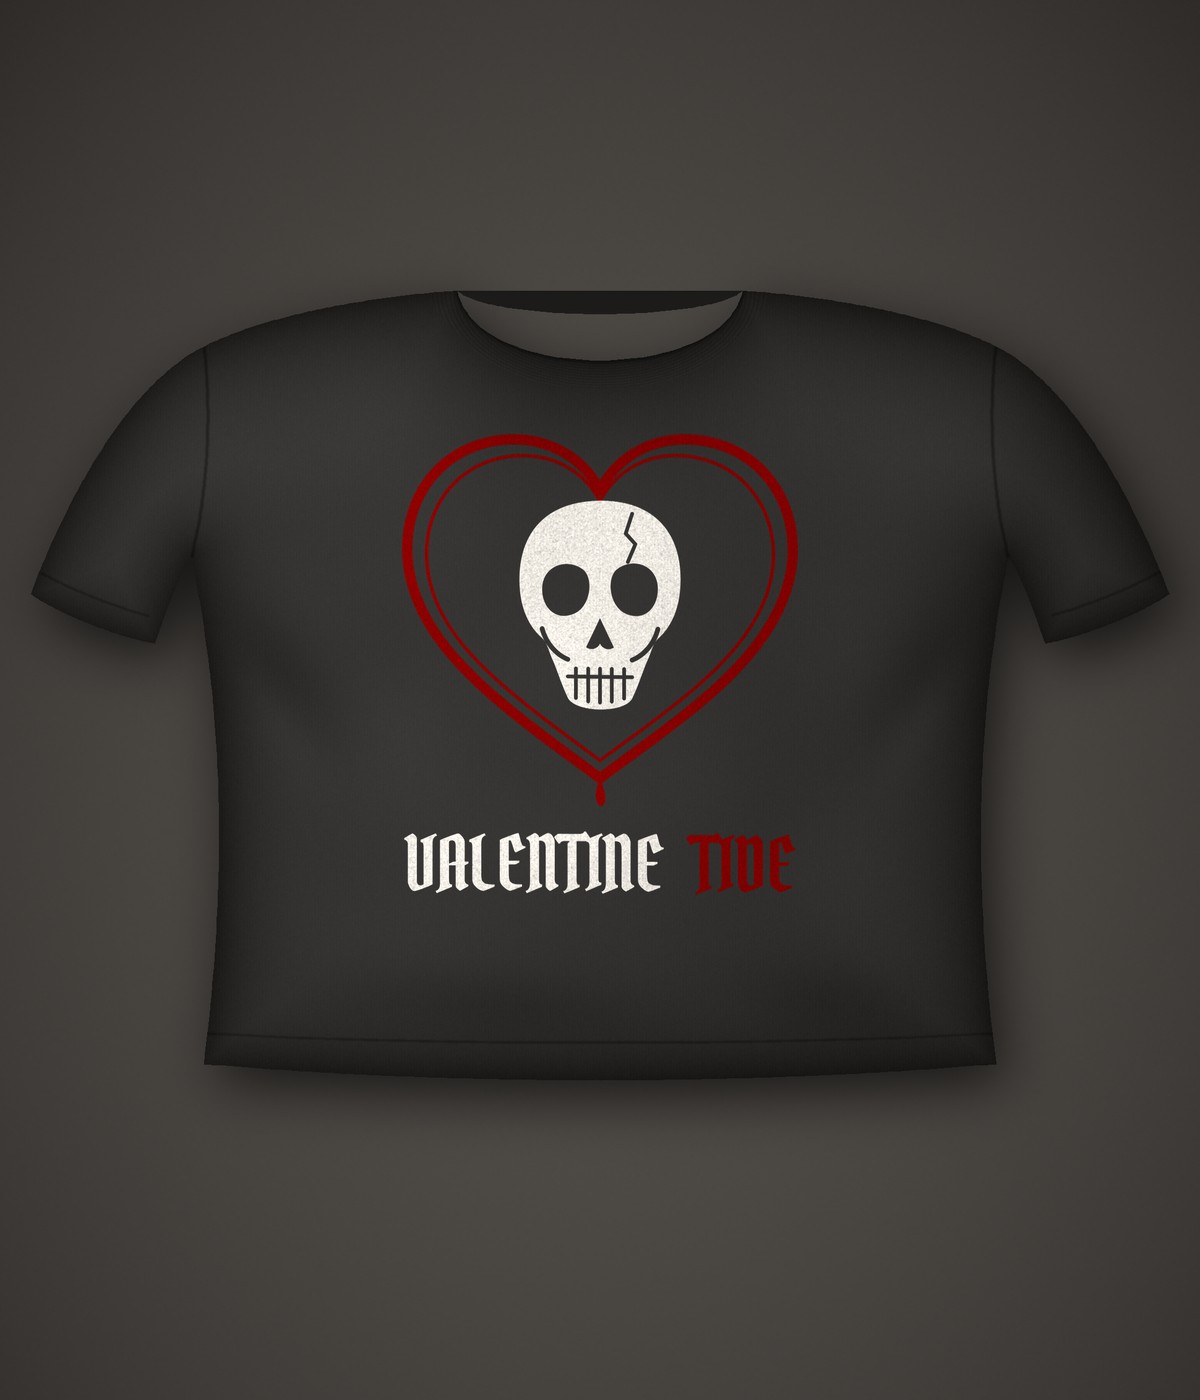
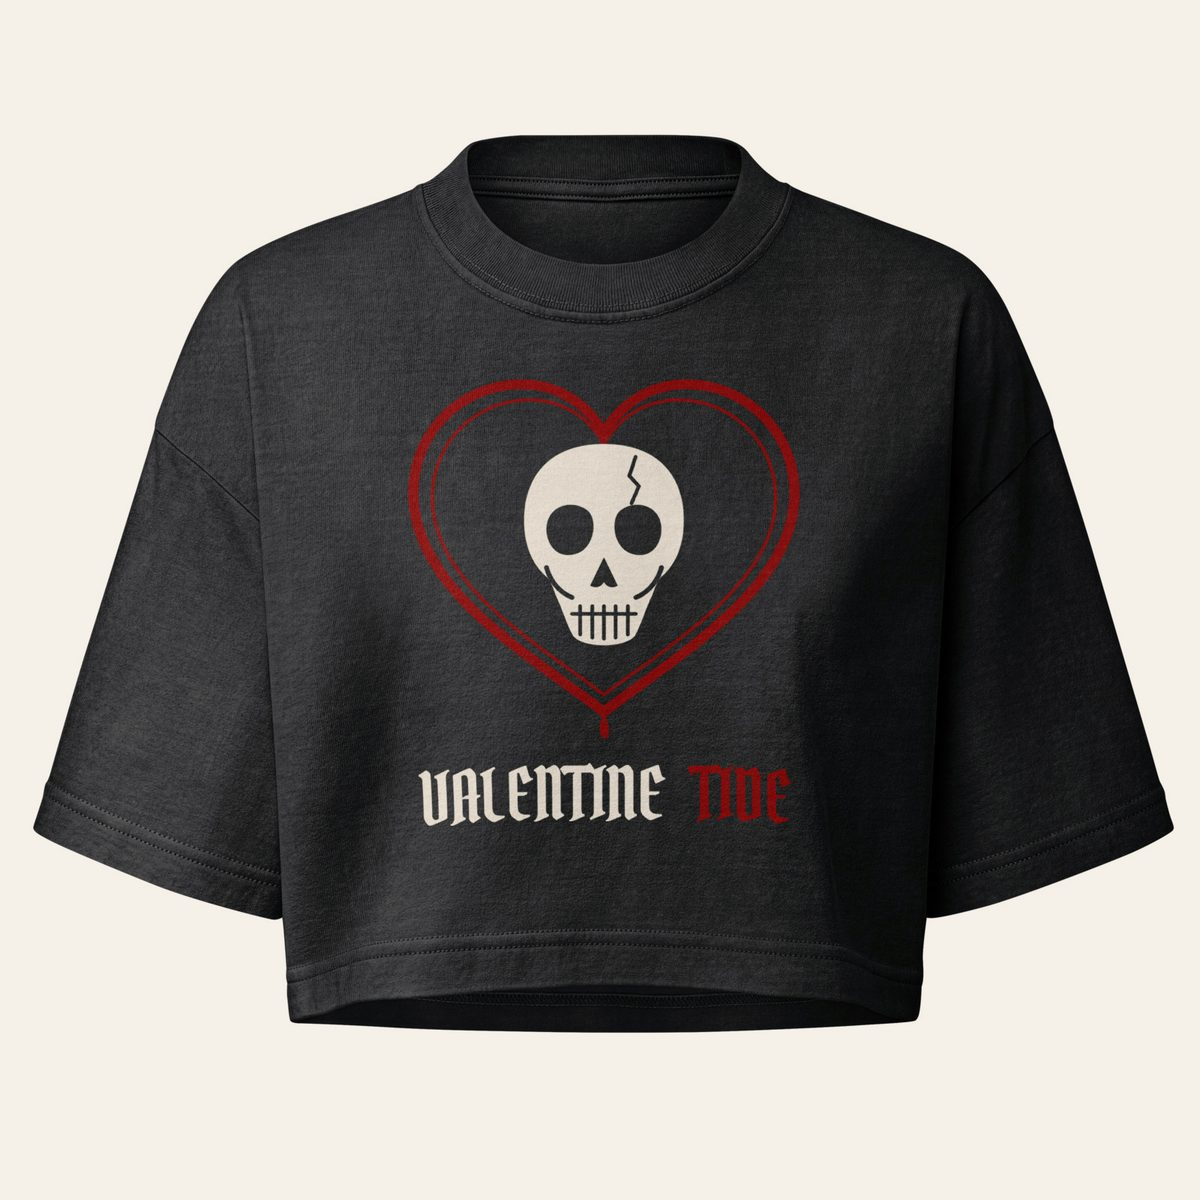
Replace the drawn product images with real Printful photo mockups
Flat, on model, back and close up shots of the actual blanks with the
real print, toned to the bone background so they sit well on the dark
site. Thumbnails now shrink to fit phones.

diff --git a/shop.js b/shop.js
@@ -45,7 +45,7 @@
     el.innerHTML = `
       <div class="product__gallery">
         <div class="product__media" data-zoom>
-          <img class="product__img" src="${gallery[0].src}" alt="${esc(gallery[0].alt)}" width="1200" height="1400" />
+          <img class="product__img" src="${gallery[0].src}" alt="${esc(gallery[0].alt)}" width="1200" height="1200" />
         </div>
         ${
           gallery.length > 1
@@ -54,7 +54,7 @@
                   .map(
                     (g, i) => `
                   <button class="thumb${i === 0 ? " is-active" : ""}" type="button" role="listitem" data-index="${i}" aria-label="Show ${esc(g.alt)}" ${i === 0 ? 'aria-current="true"' : ""}>
-                    <img src="${g.src}" alt="" width="1200" height="1400" loading="lazy" />
+                    <img src="${g.src}" alt="" width="1200" height="1200" loading="lazy" />
                   </button>`
                   )
                   .join("")}

diff --git a/styles.css b/styles.css
@@ -400,7 +400,9 @@ p {
 }
 
 .thumb {
-  flex: 0 0 5.5rem;
+  /* Up to 5.5rem each, shrinking so any number of thumbs fits a phone. */
+  flex: 0 1 5.5rem;
+  min-width: 0;
   padding: 0;
   background: none;
   border: 1px solid var(--bone-faint);
